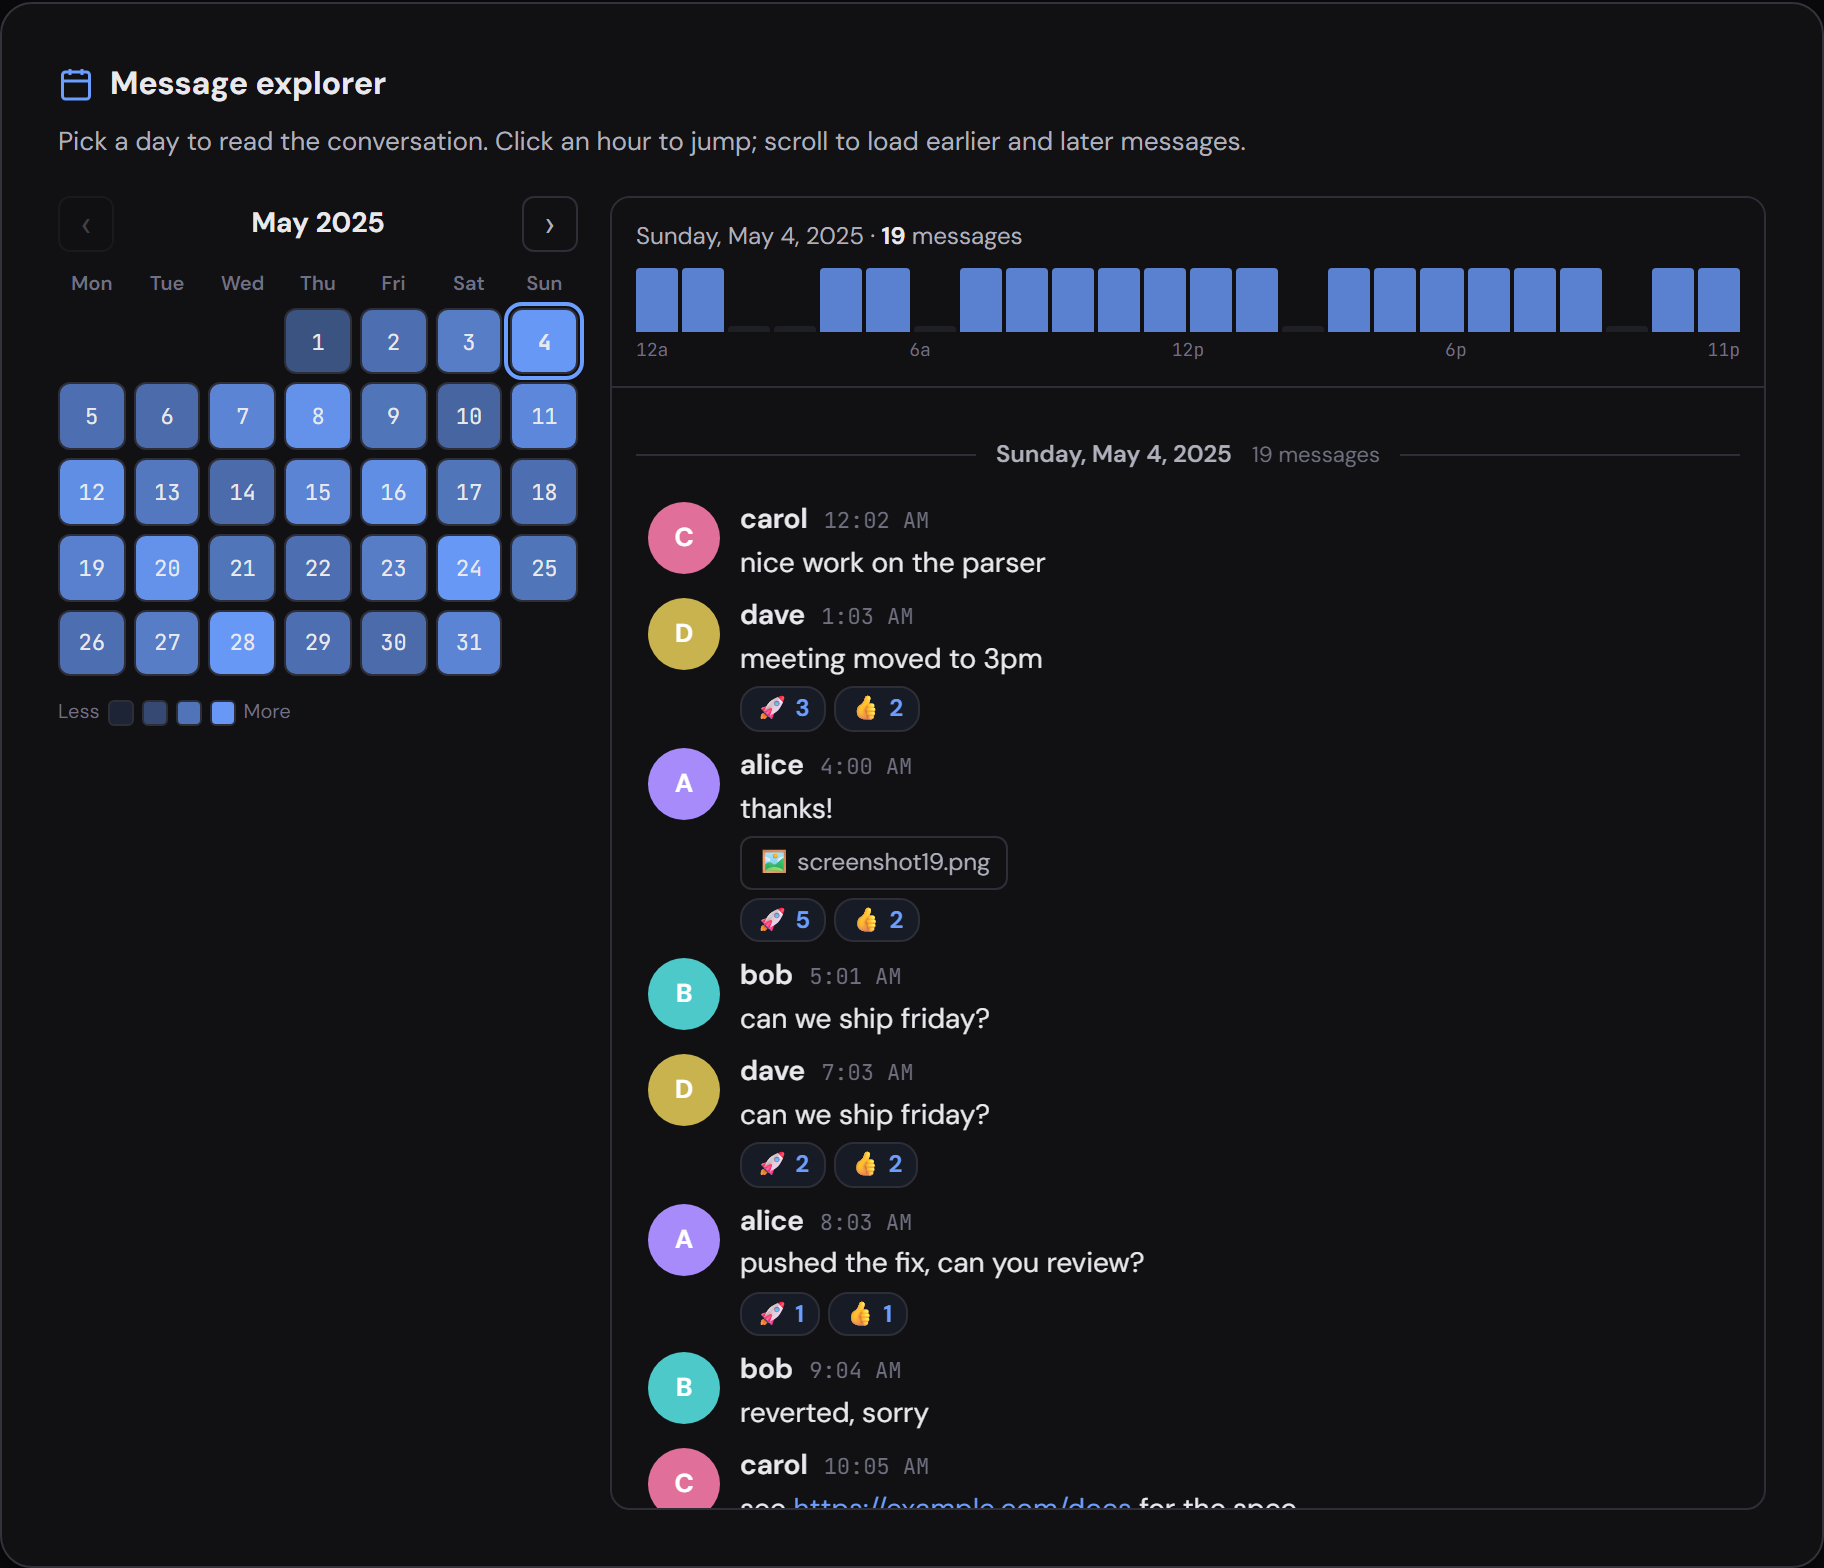
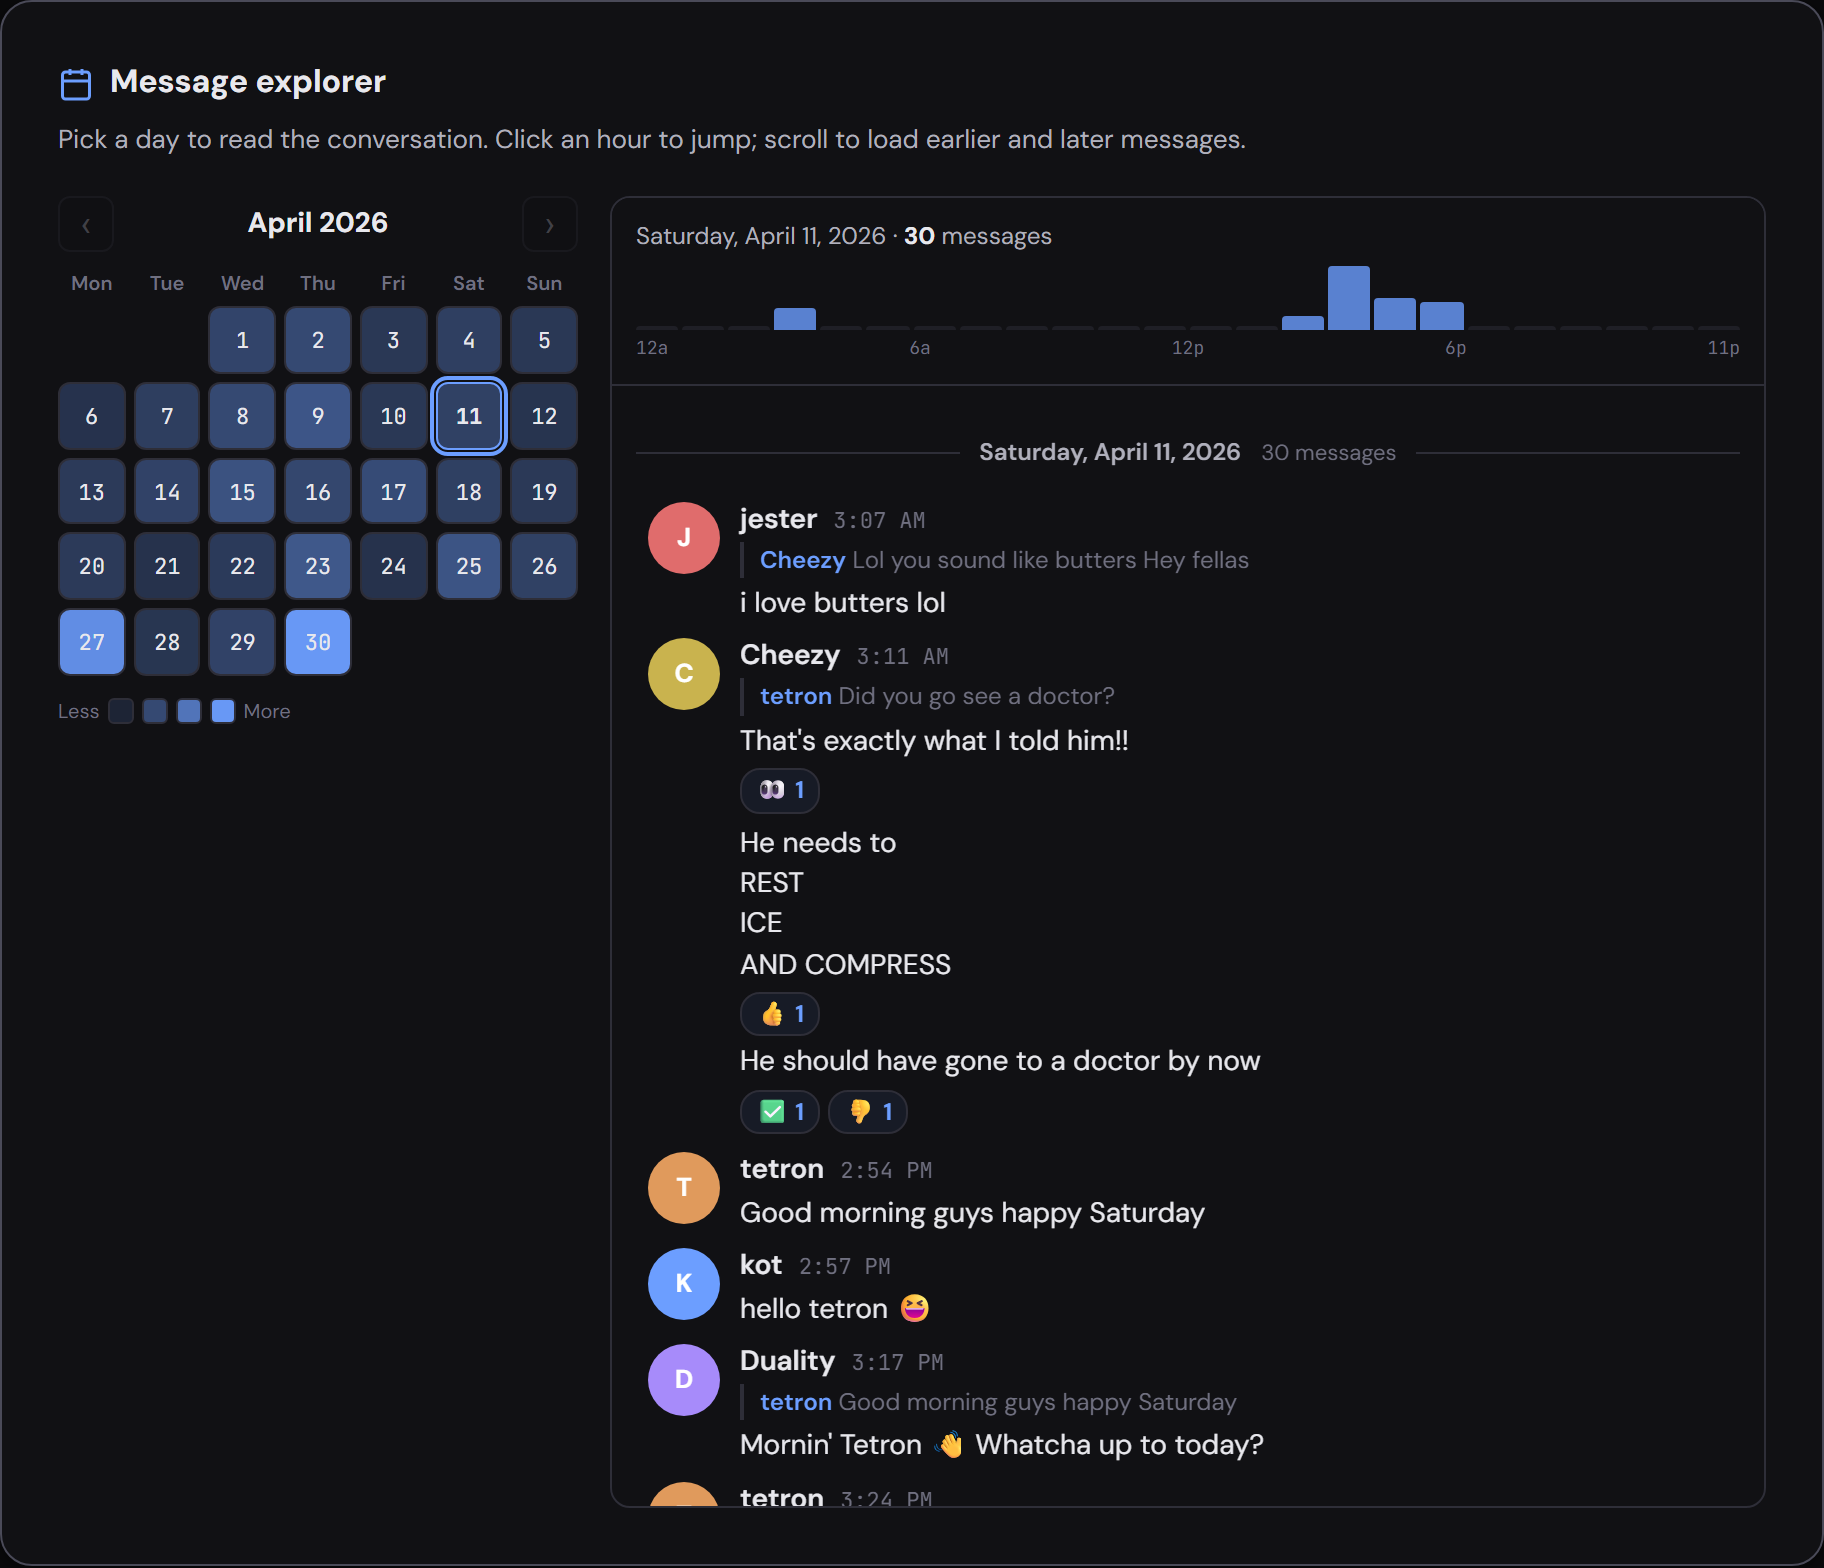
Use real-data README screenshots; fix network label clipping
Replace the synthetic README screenshots with ones captured from a real
export (restricted to a clean April-2026 window so no sensitive content is
shown — the dashboard, explorer day view, reply network and Wrapped poster
are all verified clean). The reply network now shows a real, dense
participant graph instead of a sparse synthetic one.

Also fixes a real rendering bug surfaced by the denser graph: bottom-row
node labels (drawn at y + radius + 12) could extend past the SVG viewBox
and clip. Reserve room by clamping node y to h - 42.

diff --git a/src/ui/insights.js b/src/ui/insights.js
@@ -196,7 +196,9 @@ function layout(nodes, edges, w, h, iters) {
       pos[i].vx *= 0.86;
       pos[i].vy *= 0.86;
       pos[i].x = Math.max(24, Math.min(w - 24, pos[i].x));
-      pos[i].y = Math.max(20, Math.min(h - 24, pos[i].y));
+      // Leave room below the lowest node for its name label (drawn at
+      // y + radius + 12) so bottom-row labels don't clip past the viewBox.
+      pos[i].y = Math.max(20, Math.min(h - 42, pos[i].y));
     }
   }
   return pos;
